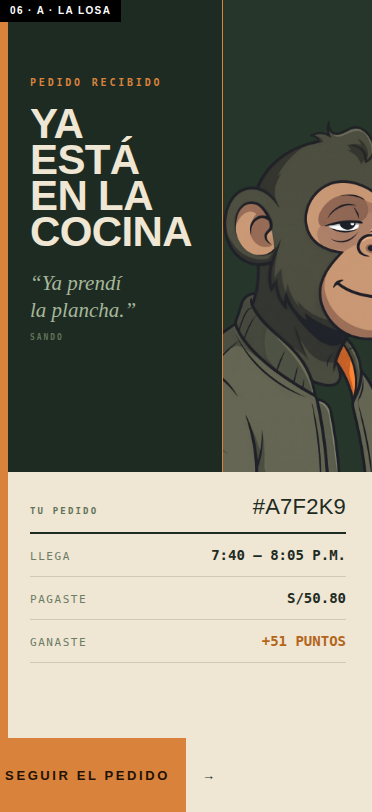
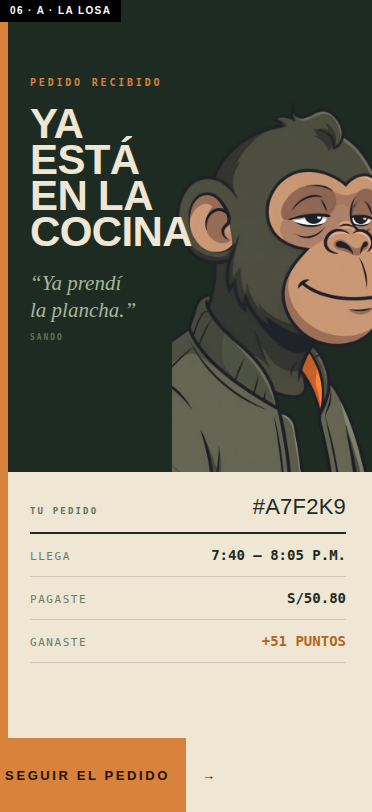
Maquetas: 06 A la losa con SANDO entero, y la 31 de Yape aprobada
- 06 A: se quita la columna que le cortaba la cara a SANDO; queda entero
  hasta la losa, como la versión que eligió el dueño. Es la vigente y se
  retira la 06 B.
- 31 · Pagar con Yape (e1.html #4, «el código rehecho») pasa a aprobada.
  La cifra «son S/2.79 más» es de muestra y el QR será el del dueño.
- La 30 G2 queda como la única pendiente de visto bueno.

Claude-Session: https://claude.ai/code/session_01NCVgixMFGDjTdiWThGTz7g

Changed region(s): [[0.4435, 0.1232, 1.0, 0.585]]

diff --git a/docs/maquetas/fuentes/y1.html b/docs/maquetas/fuentes/y1.html
@@ -21,9 +21,8 @@ body{background:#2a2a2a;padding:22px;display:flex;flex-wrap:wrap;gap:20px;width:
 #A h1{font-family:Anton,sans-serif;font-size:42px;line-height:.86;color:#EFE6D4;margin-top:18px;letter-spacing:-.015em}
 #A .sub{font-family:'Instrument Serif',serif;font-style:italic;font-size:21px;color:#A6B79A;margin-top:20px;line-height:1.25}
 #A .sub u{font:700 8px/1 'IBM Plex Mono',monospace;font-style:normal;letter-spacing:.24em;color:#5F7358;margin-top:11px;text-transform:uppercase}
-#A .col{position:absolute;right:0;top:0;width:150px;bottom:340px;z-index:3;overflow:hidden;
-  background:#26362B;border-left:1px solid #D8823C}
-#A .col img{position:absolute;right:-48px;bottom:-8px;height:360px}
+#A .col{position:absolute;right:0;top:0;width:200px;bottom:340px;z-index:3;overflow:hidden}
+#A .col img{position:absolute;right:-22px;bottom:-30px;height:400px}
 #A .losa{position:absolute;left:0;right:0;bottom:74px;top:472px;background:#EFE6D4;z-index:10;padding:22px 26px 0 30px}
 #A .losa .ca{display:flex;justify-content:space-between;align-items:baseline;border-bottom:2px solid #1E2B22;padding-bottom:12px}
 #A .losa .ca em{font:700 9px/1 'IBM Plex Mono',monospace;letter-spacing:.24em;color:#5F7358;text-transform:uppercase}

diff --git a/docs/maquetas/README.md b/docs/maquetas/README.md
@@ -25,8 +25,7 @@ vive en el chat o en `/tmp`, no existe.
 |---|---|---|---|
 | 01 · Ficha de un Signature (SANDO) | `01-ficha-de-un-signature.png` | perdida — recorte de captura | «La pantalla de la ficha, me agrada para sando» |
 | 06 · Pedido enviado | `06-pedido-enviado.png` | `p2.html` #3 | «Pedido ya está en la cocina, esa pantalla bien» |
-| 06 A · la losa | `06A-pedido-enviado-la-losa.png` | `y1.html` #1 | rehecha 2026-09-23 — **falta elegir A o B** |
-| 06 B · la ventana | `06B-pedido-enviado-la-ventana.png` | `y1.html` #2 | rehecha 2026-09-23 — **falta elegir A o B** |
+| 06 A · la losa | `06A-pedido-enviado-la-losa.png` | `y1.html` #1 | «La losa, pero bien hecho» (2026-09-24) — **la vigente**: SANDO entero hasta la losa, sin la columna que le cortaba la cara |
 | 23 · La comanda (cocina) | `23-la-comanda.png` | perdida — recorte de captura | «La comanda me gusta» |
 | 29 · Tus puntos | `29-tus-puntos.png` | `v1.html` #1 | «Ok listo esa queda» |
 | 29 · estado A · entra | `29-estado-a-entra.png` | `w1.html` #1 | la animación de la 29 |
@@ -34,6 +33,7 @@ vive en el chat o en `/tmp`, no existe.
 | 29 · estado C · sellada | `29-estado-c-sellada.png` | `w1.html` #3 | la animación de la 29 |
 | 30 G · el carrito | `30G-el-carrito.png` | `h1.html` #1 | «Me encantó la pantalla 30 G» |
 | 30 G2 · con la franja | `30G2-el-carrito-con-la-franja.png` | `y1.html` #3 | corrección 2026-09-23 — **falta el visto bueno** |
+| 31 · Pagar con Yape | `31-pagar-con-yape.png` | `e1.html` #4 | «es la 31 código rehecho» (2026-09-24) — la cifra «son S/2.79 más» es de muestra y se calcula; el QR será el QR de Yape del dueño |
 | 31 · Pago con tarjeta | `31-pago-con-tarjeta.png` | `y1.html` #4 | «las instrucciones de la tarjeta igual, están bien» + el pulgar |
 | 32 · En camino | `32-en-camino.png` | perdida — recorte de captura | «22, aprobada» (era la 32) |
 | 33 · Tus pedidos — solo la mitad de arriba | `33-tus-pedidos-mitad-de-arriba.png` | perdida — recorte de captura | arriba sí, la lista no — **la vigente es «los sellos»** |
@@ -61,9 +61,8 @@ vive en el chat o en `/tmp`, no existe.
 
 ## Lo que todavía no tiene maqueta aprobada
 
-- **31 · pagar con Yape** — gustó «la versión con el visor sobre morado», pero no quedó
-  registrado cuál de las candidatas es (`z1`, `e1`, `d1`, `n1` en `fuentes/`). Hay que
-  volver a mostrarlas.
+- **30 G2 · con la franja** — corrección del 2026-09-23, falta el visto bueno. Mientras
+  tanto la 30 G es la aprobada.
 
 ## Datos de muestra dentro de las maquetas
 
